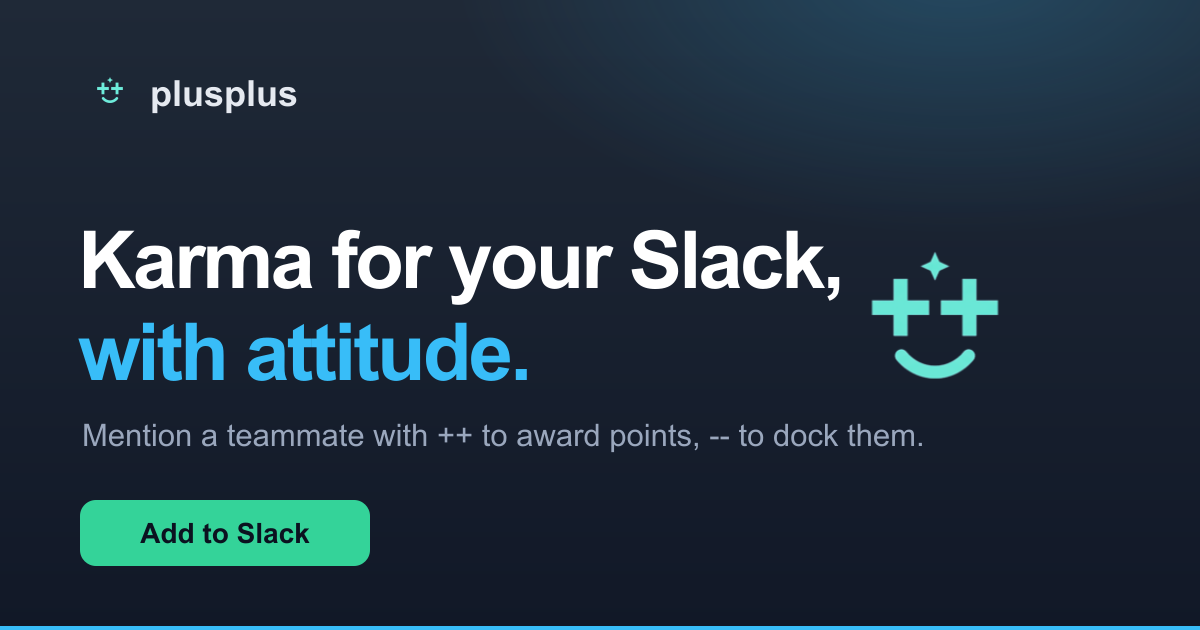
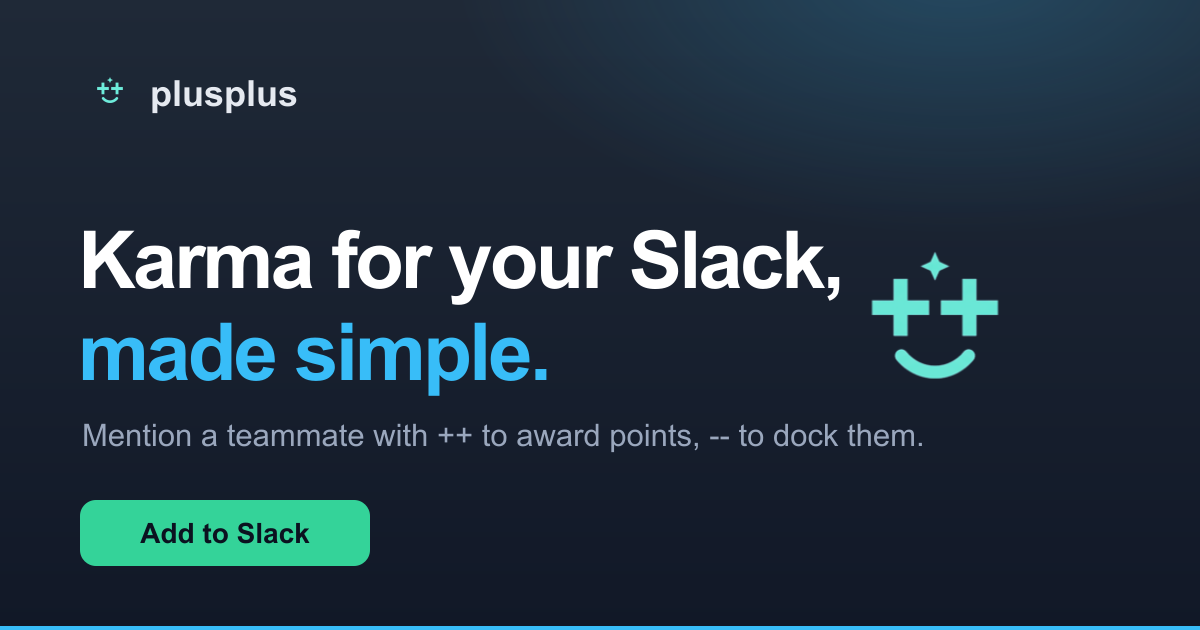
change tag line

Changed region(s): [[0.0617, 0.5127, 0.4625, 0.6333]]

diff --git a/landing/index.html b/landing/index.html
@@ -4,7 +4,7 @@
   <meta charset="UTF-8" />
   <meta name="viewport" content="width=device-width, initial-scale=1.0" />
   <meta name="slack-app-id" content="A0AS7F57GJH" />
-  <title>PlusPlus — Karma for Slack, with attitude</title>
+  <title>PlusPlus — Karma for Slack, made simple</title>
   <meta name="description" content="A Slack bot that tracks karma. Mention someone with ++ to award points, -- to dock them. Leaderboards, per-channel settings, and configurable snark." />
 
   <meta property="og:title" content="PlusPlus — Karma for Slack" />
@@ -16,7 +16,7 @@
   <meta property="og:image:width" content="1200" />
   <meta property="og:image:height" content="630" />
   <meta property="og:image:type" content="image/png" />
-  <meta property="og:image:alt" content="PlusPlus — Karma for your Slack, with attitude." />
+  <meta property="og:image:alt" content="PlusPlus — Karma for your Slack, made simple." />
   <meta name="twitter:card" content="summary_large_image" />
   <meta name="twitter:title" content="PlusPlus — Karma for Slack" />
   <meta name="twitter:description" content="Mention someone with ++ to award points, -- to dock them. Leaderboards, per-channel settings, and configurable snark." />
@@ -36,7 +36,7 @@
     </nav>
 
     <div class="hero__inner">
-      <h1 class="hero__title">Karma for your Slack,<br /><span class="accent">with attitude.</span></h1>
+      <h1 class="hero__title">Karma for your Slack,<br /><span class="accent">made simple.</span></h1>
       <p class="hero__subtitle">
         Mention a teammate with <code>++</code> to award points and <code>--</code> to dock them.
         PlusPlus keeps score, runs the leaderboard, and shuts down the karma farmers with a little snark.

diff --git a/landing/build-og.py b/landing/build-og.py
@@ -32,7 +32,7 @@ svg = f"""<svg xmlns="http://www.w3.org/2000/svg" xmlns:xlink="http://www.w3.org
   <text x="150" y="106" font-family="Arial, Helvetica, sans-serif" font-weight="bold" font-size="36" fill="#e5e9f0">plusplus</text>
 
   <text x="78" y="288" font-family="Arial, Helvetica, sans-serif" font-weight="bold" font-size="80" letter-spacing="-3" fill="#ffffff">Karma for your Slack,</text>
-  <text x="78" y="380" font-family="Arial, Helvetica, sans-serif" font-weight="bold" font-size="80" letter-spacing="-3" fill="#38bdf8">with attitude.</text>
+  <text x="78" y="380" font-family="Arial, Helvetica, sans-serif" font-weight="bold" font-size="80" letter-spacing="-3" fill="#38bdf8">made simple.</text>
 
   <text x="82" y="446" font-family="Arial, Helvetica, sans-serif" font-size="31" fill="#9aa7bd">Mention a teammate with ++ to award points, -- to dock them.</text>
 
